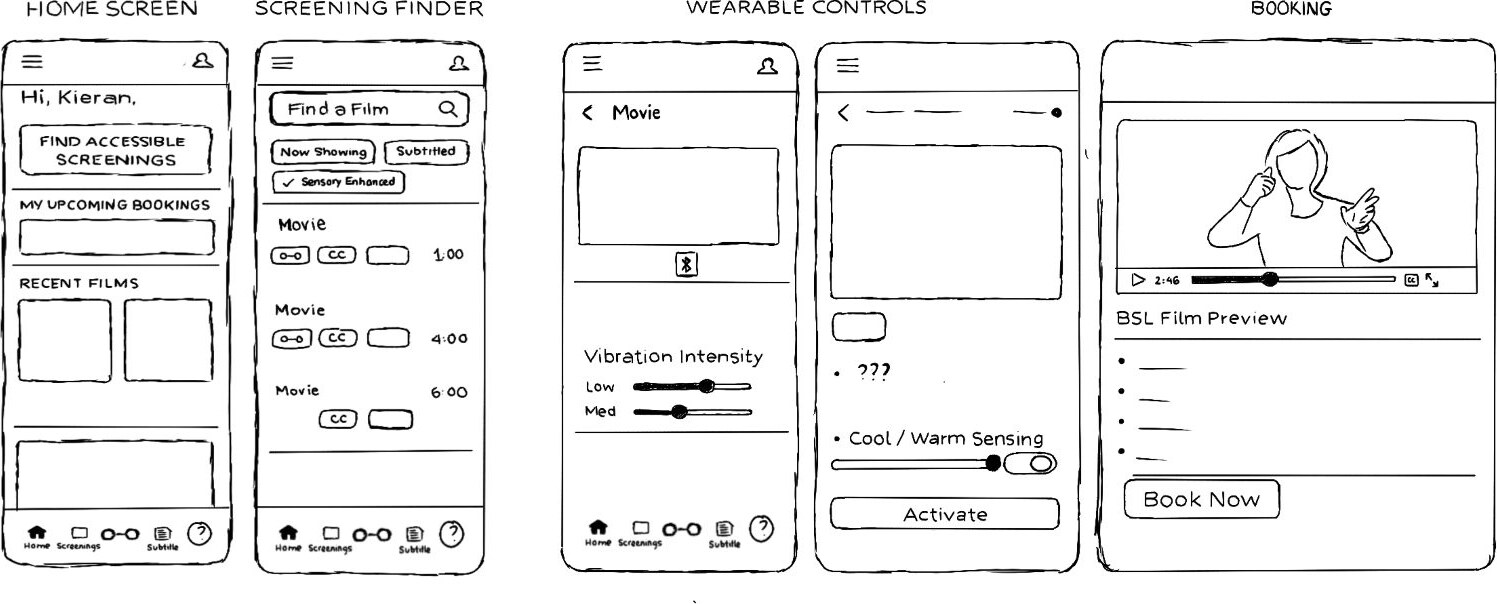
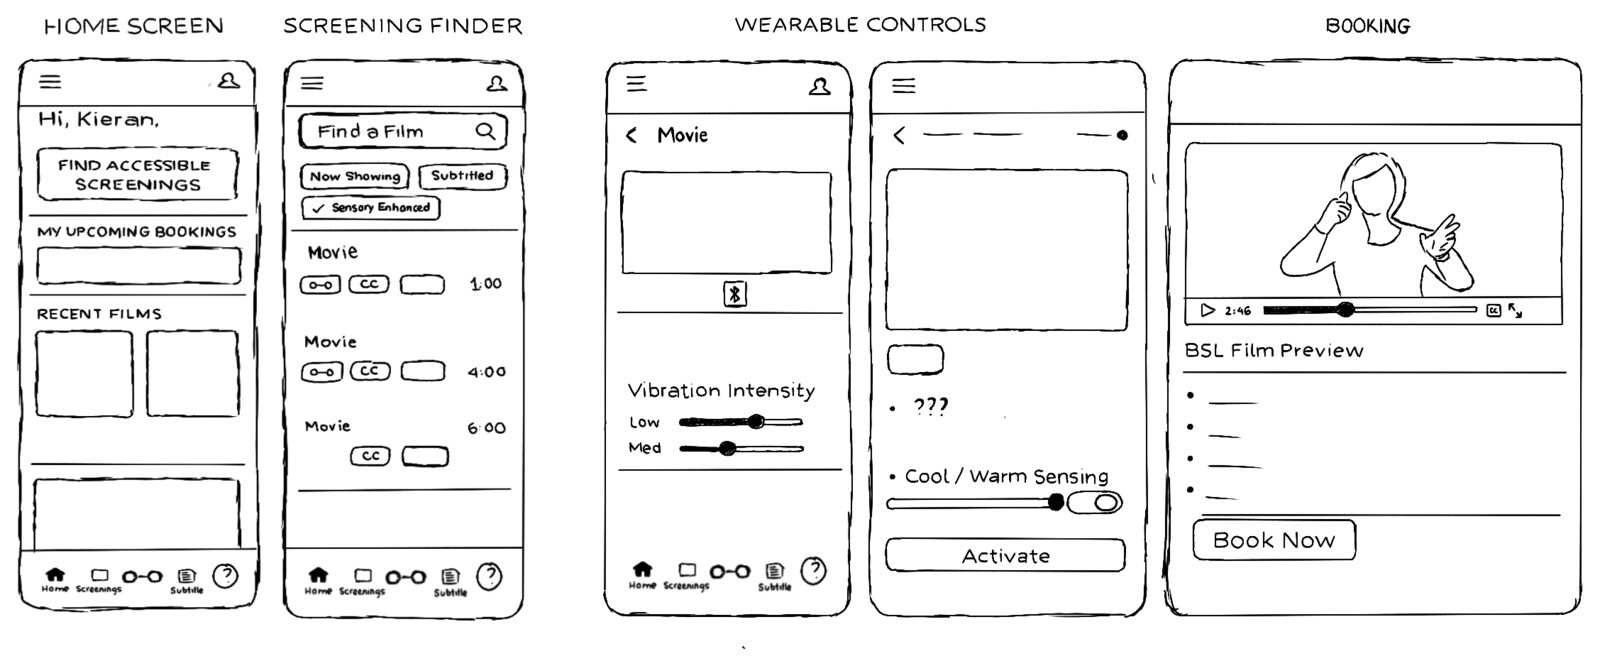
CineSense: portfolio words under each section instead of a PDF screenshot; uncropped digital proposal
Sections can now carry text under their heading.

Changed region(s): [[0.3687, 0.0, 1.0, 0.9536], [0.0, 0.0, 0.338, 0.9536]]

diff --git a/projects.js b/projects.js
@@ -263,28 +263,26 @@ const projects = [
     category: "Graphic & Interaction",
     folder: "designing-interactive-experiences",
     images: ["cinesense.jpg"],
-    // Follows the order of the course portfolio (Subelements II and III).
+    // Follows the order and words of the course portfolio (Subelements II and III).
     sections: [
-      ["proto persona", ["persona.jpg"]],
+      ["proto persona", [], "Kieran, 36, data analyst (from the brief)\n\nKieran is profoundly deaf and uses British Sign Language (BSL) as his first language. He lip-reads to some extent but finds it tiring and unreliable, especially in poor lighting or with people who don't face him directly. He wears hearing aids that provide some awareness of environmental sounds but don't enable him to understand speech. Kieran lives with his hearing partner, who is fluent in BSL, and he advocates actively for deaf access in his workplace and community.\n\nInterests: running, football, reading, film, travel\n\nRecreational barriers:\n• Participating in group hobbies or sports becomes isolating when communication happens through spoken word without visual alternatives or BSL interpretation.\n• Going to the cinema is often disappointing when subtitled screenings are limited to specific times and days, restricting spontaneous entertainment choices. Subtitled screenings also limit the immersive experience that non-DHH peers enjoy.\n• Traveling to new places becomes stressful when tourist information, guided tours and staff interactions rely solely on spoken communication without written or visual support."],
       ["user journey", ["general-user-journey-map-1.jpg"]],
-      ["design proposal I · digital", ["companion.jpg"]],
-      ["design proposal II · physical", ["bsl-cinema.jpg"]],
-      ["paper prototype", ["img-0312.jpg", "paper-1.jpg", "paper-2.jpg", "paper-3.jpg", "paper-4.jpg"]],
-      ["research · haptics", ["haptic.jpg"]],
+      ["design proposal I · digital", ["companion.jpg"], "The digital design proposes a companion app that enables Deaf users to easily discover and engage with accessible film experiences, both in cinemas and at home. The platform allows users to find subtitled and sensory-enhanced screenings, supporting more spontaneous and flexible viewing rather than relying on limited scheduled accessibility options. In addition to discovery, the app connects to a wearable haptic device (the physical proposal) via Bluetooth, allowing users to customize their experience through adjustable vibration intensity and sensory settings. These controls let users tailor feedback to their comfort level, keeping the experience both immersive and non-intrusive.\n\nThe interface prioritizes clarity and visual navigation, reducing reliance on audio and supporting intuitive interaction. By combining accessibility information with personalization tools, the app extends beyond traditional captioning, offering a more inclusive and adaptable way for Deaf users to access and experience film."],
+      ["design proposal II · physical", ["bsl-cinema.jpg"], "This proposal presents a combination of wearable systems using haptics and temperature (glasses, an ear-based device and a neck-worn band) designed to translate cinematic sound into a layered, multi-sensory experience for Deaf and Hard of Hearing (DHH) audiences. While haptic cinema is not a new concept, existing solutions often limit practicality or immersion. This design aims to create a more realistic, wearable and socially integrated system by distributing feedback across the head and neck.\n\nEach component delivers a distinct type of sensory input: the glasses provide light vibrations across the temples for directional cues and visual emphasis; the ear device offers more precise, localized haptics for dialogue and subtle sound details; and the neck band delivers deeper, ambient vibrations to represent bass, tension and environmental atmosphere. Together, they create a more holistic interpretation of a film's soundscape."],
+      ["paper prototype", ["img-0312.jpg", "paper-1.jpg", "paper-2.jpg", "paper-3.jpg", "paper-4.jpg"], "This paper prototype was an early exploration of the haptic neck wearable, focusing on its form, placement and interaction. The model was created to quickly test how a device could sit around the neck, where haptic points might be positioned, and how users might physically engage with controls. At this stage, the concept also included both haptic feedback and temperature-based elements to enhance immersion within cinematic experiences.\n\nFeedback from testing highlighted several important considerations. Users noted that the device could be distracting in a cinema environment, particularly if sensations were too noticeable. The inclusion of temperature was also questioned, as it does not consistently align with most film experiences and could present safety concerns. Additionally, it was suggested that the concept may be more appropriate for home viewing, where users have greater control and comfort."],
+      ["research · haptics", ["haptic.jpg"], "Further feedback encouraged exploration of alternative haptic formats, such as blankets, wearables and accessories. While these options offered potential, they revealed limitations in practicality or immersion, reinforcing the decision to refine and focus on the neck as the most effective and balanced placement for haptic feedback."],
       ["iteration I · ring & bracelet", ["img-0328.jpg", "img-0339.jpg"]],
       ["iteration II · neck haptic", ["img-0336.jpg", "img-0337.jpg", "img-0338.jpg", "img-0340.jpg", "img-0341.jpg"]],
-      ["the cinesense experience", ["img-1659.jpg"]],
-      ["final iteration", ["img-0345.jpg", "img-0346.jpg", "img-0347.jpg", "img-0342.jpg", "img-0344.jpg", "img-0357.mp4", "img-0354.mp4", "img-0355.mp4"]],
+      ["the cinesense experience", ["img-1659.jpg"], "Kieran uses CineSense, with its potential digital counterpart."],
+      ["final iteration", ["img-0345.jpg", "img-0346.jpg", "img-0347.jpg", "img-0342.jpg", "img-0344.jpg", "img-0357.mp4", "img-0354.mp4", "img-0355.mp4"], "This final iteration prioritizes practicality over visual complexity. While the form may appear minimal or \"basic,\" this is intentional. Many existing haptic systems focus on function rather than aesthetics, and this design follows the same principle, making the device realistic, wearable and suitable for everyday use rather than overly conceptual.\n\nThe structure has been thickened to increase surface contact across the neck, allowing haptic feedback to be distributed more effectively and perceived more clearly. The curved form has also been refined to follow the natural contour of the shoulders, improving stability and long-term comfort. Earlier prototypes explored a thinner design with an internal charging port, but this limited usability, as the device could not be worn while charging. In response, the charging port has been moved to the exterior, enabling continuous use and a more practical experience.\n\nThe device would be constructed from a durable polymer outer shell with a soft-touch finish, paired with an inner cushioned layer inspired by ergonomic seating materials. This combination balances structural integrity with comfort, reinforcing the product's focus on function, accessibility and real-world application."],
       ["iteration II and final", ["img-0350.jpg"]],
       ["feel every moment", ["cinesense-film.mp4"]],
     ],
     captions: {
-      "persona.jpg": "Kieran, 36, data analyst: the persona from the brief",
       "img-0350.jpg": "iteration II (left) beside the final iteration (right)",
       "cinesense-film.mp4": "the CineSense film (opens with sound)",
     },
     crop: {
-      "persona.jpg": "whole",
       "paper-1.jpg": "50% 85%",
       "general-user-journey-map-1.jpg": "whole",
       "companion.jpg": "whole",
@@ -446,7 +444,7 @@ const descriptions = {
   "arcstart-3d-forms":
     "A project from ArcStart 2024 at the University of Michigan, where we learned to draw isometric views while also learning to create our own patterns in Illustrator. I developed one interlocking form and drew it from four viewpoints, northwest, southeast, southwest and northeast, each in its own color, alongside a palette of colors and patterns I designed.\n\nWe then had to choose one view and turn it into a room for \"something.\" Mine became a room for rock climbing. To bring it into three dimensions, I printed my patterns onto paper nets, folded them into the pieces of the form, and photographed the finished model in a lightbox with scale figures.",
   "designing-interactive-experiences":
-    "CineSense is a haptic wearable that lets Deaf and Hard of Hearing (DHH) audiences feel film: \"feel every moment.\" It began with a persona from the brief, Kieran, a 36-year-old data analyst who is profoundly deaf and uses British Sign Language. He loves film, but subtitled screenings are limited to specific times and days, which rules out spontaneous trips to the cinema.\n\nI mapped his journey to the cinema and developed two design proposals: a digital companion app for finding accessible screenings and controlling a wearable, and a physical multi-sensory wearable using haptics and temperature. Early development showed that past a certain point, more innovation reduces usability, so I simplified. Inspired by the familiar form of a wearable neck fan, the concept became a haptic neck device, and temperature feedback was dropped for relevance and safety.\n\nAfter a paper prototype, research into where on the body haptics are felt best, and a ring and bracelet iteration, I settled on the neck. The final iteration puts practicality over visual complexity: a wider band increases contact with the neck so vibrations are felt more clearly, the form follows the curve of the neck and shoulders, and the charging port moved to the outside so it can be worn while charging. The result is a single wearable for home viewing that makes haptics a realistic, accessible way to enhance film.",
+    "CineSense began by exploring physical haptic systems to enhance cinematic experiences for Deaf and Hard of Hearing (DHH) users. Initial concepts focused on creating a multi-sensory (haptics and temperature) wearable for cinema environments, aiming to maximize immersion through distributed feedback across the body. However, through early development, it became clear that there is a threshold where increased innovation can reduce usability.\n\nThis led to a shift toward a more practical and simplified approach. Inspired by the familiar form of a wearable neck fan, the concept evolved into a haptic neck device designed to sit comfortably around the user while delivering tactile feedback. Early iterations also explored integrating temperature-based feedback, but this direction was reconsidered due to limitations in relevance and safety.\n\nThe final direction prioritizes a single, centralized wearable that aligns with existing behaviors and environments, particularly home viewing. This approach reframes haptic technology as a realistic and accessible enhancement to film, rather than an experimental or overly complex solution.",
   "graphics-volleyball":
     "Social media graphics for Northeastern Women's Volleyball, made as part of my role as team manager. The set includes player feature graphics and a \"This Is Husky Volley\" piece.\n\nEach graphic keeps the player as the focus while carrying a consistent Husky identity.",
   "graphics-ukrainian-melodies":

diff --git a/project.js b/project.js
@@ -41,12 +41,23 @@ if (p.details) details.hidden = false;
 // them into labeled `sections` (e.g. process vs. the finished piece).
 const sections = document.getElementById("sections");
 const groups = p.sections || [["process & details", p.images.slice(1)]];
-groups.forEach(([label, files]) => {
-  if (!files.length) return;
+groups.forEach(([label, files, text]) => {
+  if (!files.length && !text) return;
   const heading = document.createElement("h2");
   heading.className = "article-label";
   heading.textContent = label;
   sections.appendChild(heading);
+  // Optional words for the section (paragraphs split by a blank line, line breaks kept).
+  if (text) {
+    const body = document.createElement("div");
+    body.className = "section-text";
+    text.split("\n\n").forEach((para) => {
+      const el = document.createElement("p");
+      el.textContent = para;
+      body.appendChild(el);
+    });
+    sections.appendChild(body);
+  }
   // Two columns; with an odd count, the last photo sits centered on its own row below.
   const paired = files.length % 2 ? files.slice(0, -1) : files;
   const last = files.length % 2 ? files.slice(-1) : [];

diff --git a/style.css b/style.css
@@ -299,3 +299,9 @@ main { max-width: var(--max); margin: 0 auto; padding: 0 2rem; }
 .booklet-controls button { width: 2.6rem; height: 2.6rem; border-radius: 50%; border: 1px solid currentColor; background: none; color: inherit; font-size: 1.5rem; line-height: 1; cursor: pointer; transition: opacity 0.2s; }
 .booklet-controls button:disabled { opacity: 0.3; cursor: default; }
 .booklet-count { min-width: 4rem; text-align: center; font-style: italic; opacity: 0.75; }
+
+/* Words under a section heading (sections: [label, files, text]) */
+.section-text { max-width: 38rem; margin: -0.5rem auto 1.75rem; font-size: 1.05rem; line-height: 1.75; white-space: pre-line; }
+.section-text p + p { margin-top: 1rem; }
+.section-text + .article-gallery:not(.single) { margin-top: 0; }
+.section-text + .article-label { margin-top: 3.5rem; }
